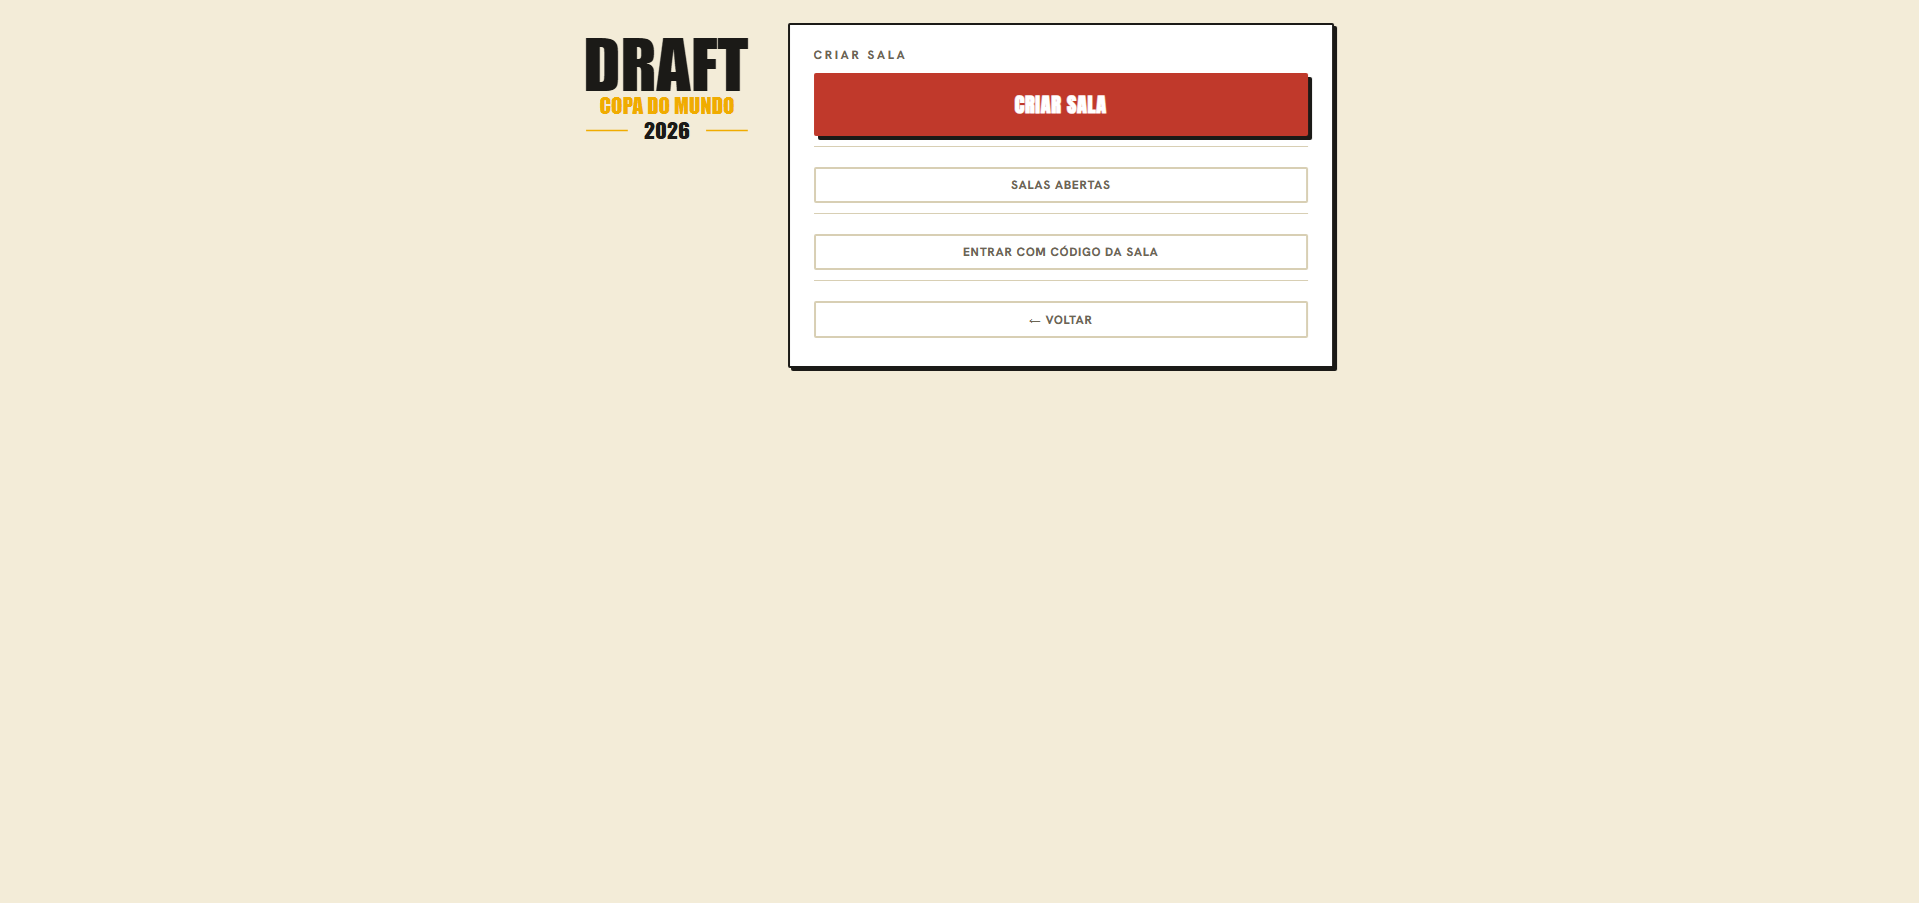
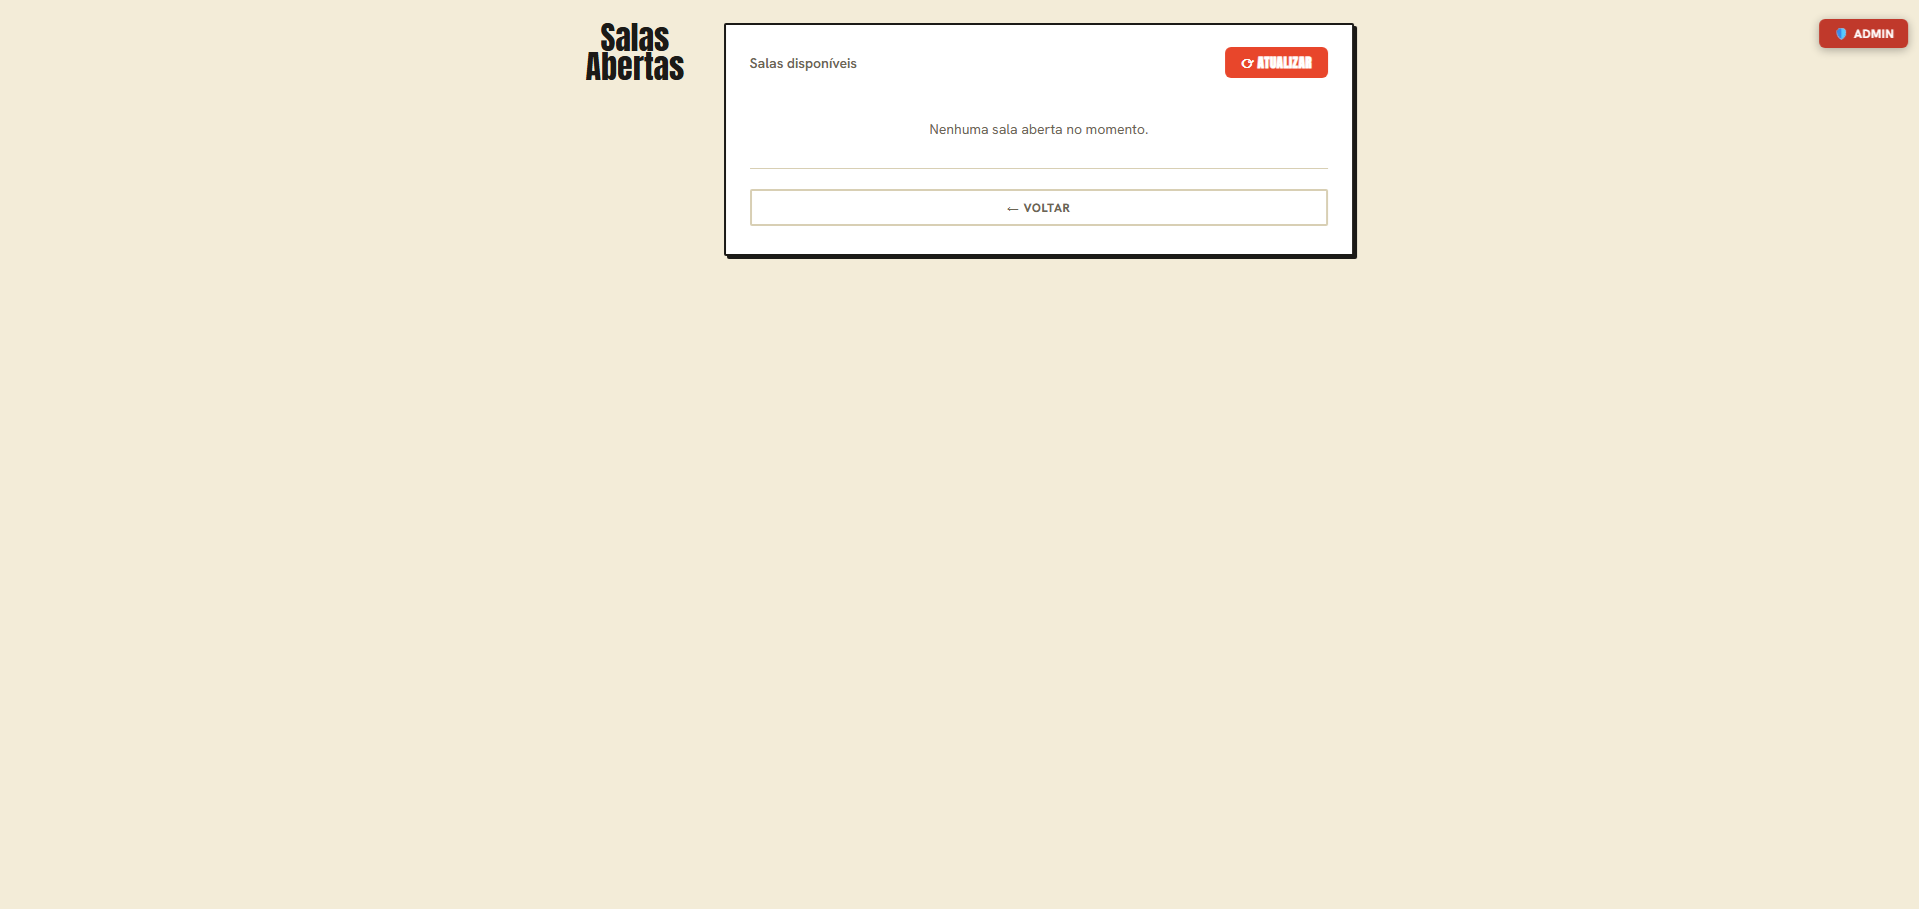
Corrige layout da tela Salas Abertas (lobby-wrap com flex)
O display:flex estava em todo .lobby-wrap, afetando a tela
de Salas Abertas. Agora o flex so se aplica ao lobby
(sala de espera) via #lobby > .lobby-wrap.

Changed region(s): [[0.3075, 0.0, 0.7071, 0.4341], [0.9224, 0.0, 1.0, 0.062]]

diff --git a/style.css b/style.css
@@ -3175,9 +3175,14 @@ section.teams {
 }
 
 .lobby-wrap {
-    max-width: 820px;
+    max-width: 480px;
     margin: 0 auto;
     padding: 24px 16px 16px;
+}
+
+/* Lobby (sala de espera) com layout lado a lado */
+#lobby > .lobby-wrap {
+    max-width: 820px;
     display: flex;
     gap: 20px;
     align-items: flex-start;
@@ -3413,7 +3418,7 @@ section.teams {
 
 /* Responsivo: empilha em tela estreita */
 @media (max-width: 740px) {
-    .lobby-wrap {
+    #lobby > .lobby-wrap {
         flex-direction: column;
         max-width: 480px;
     }